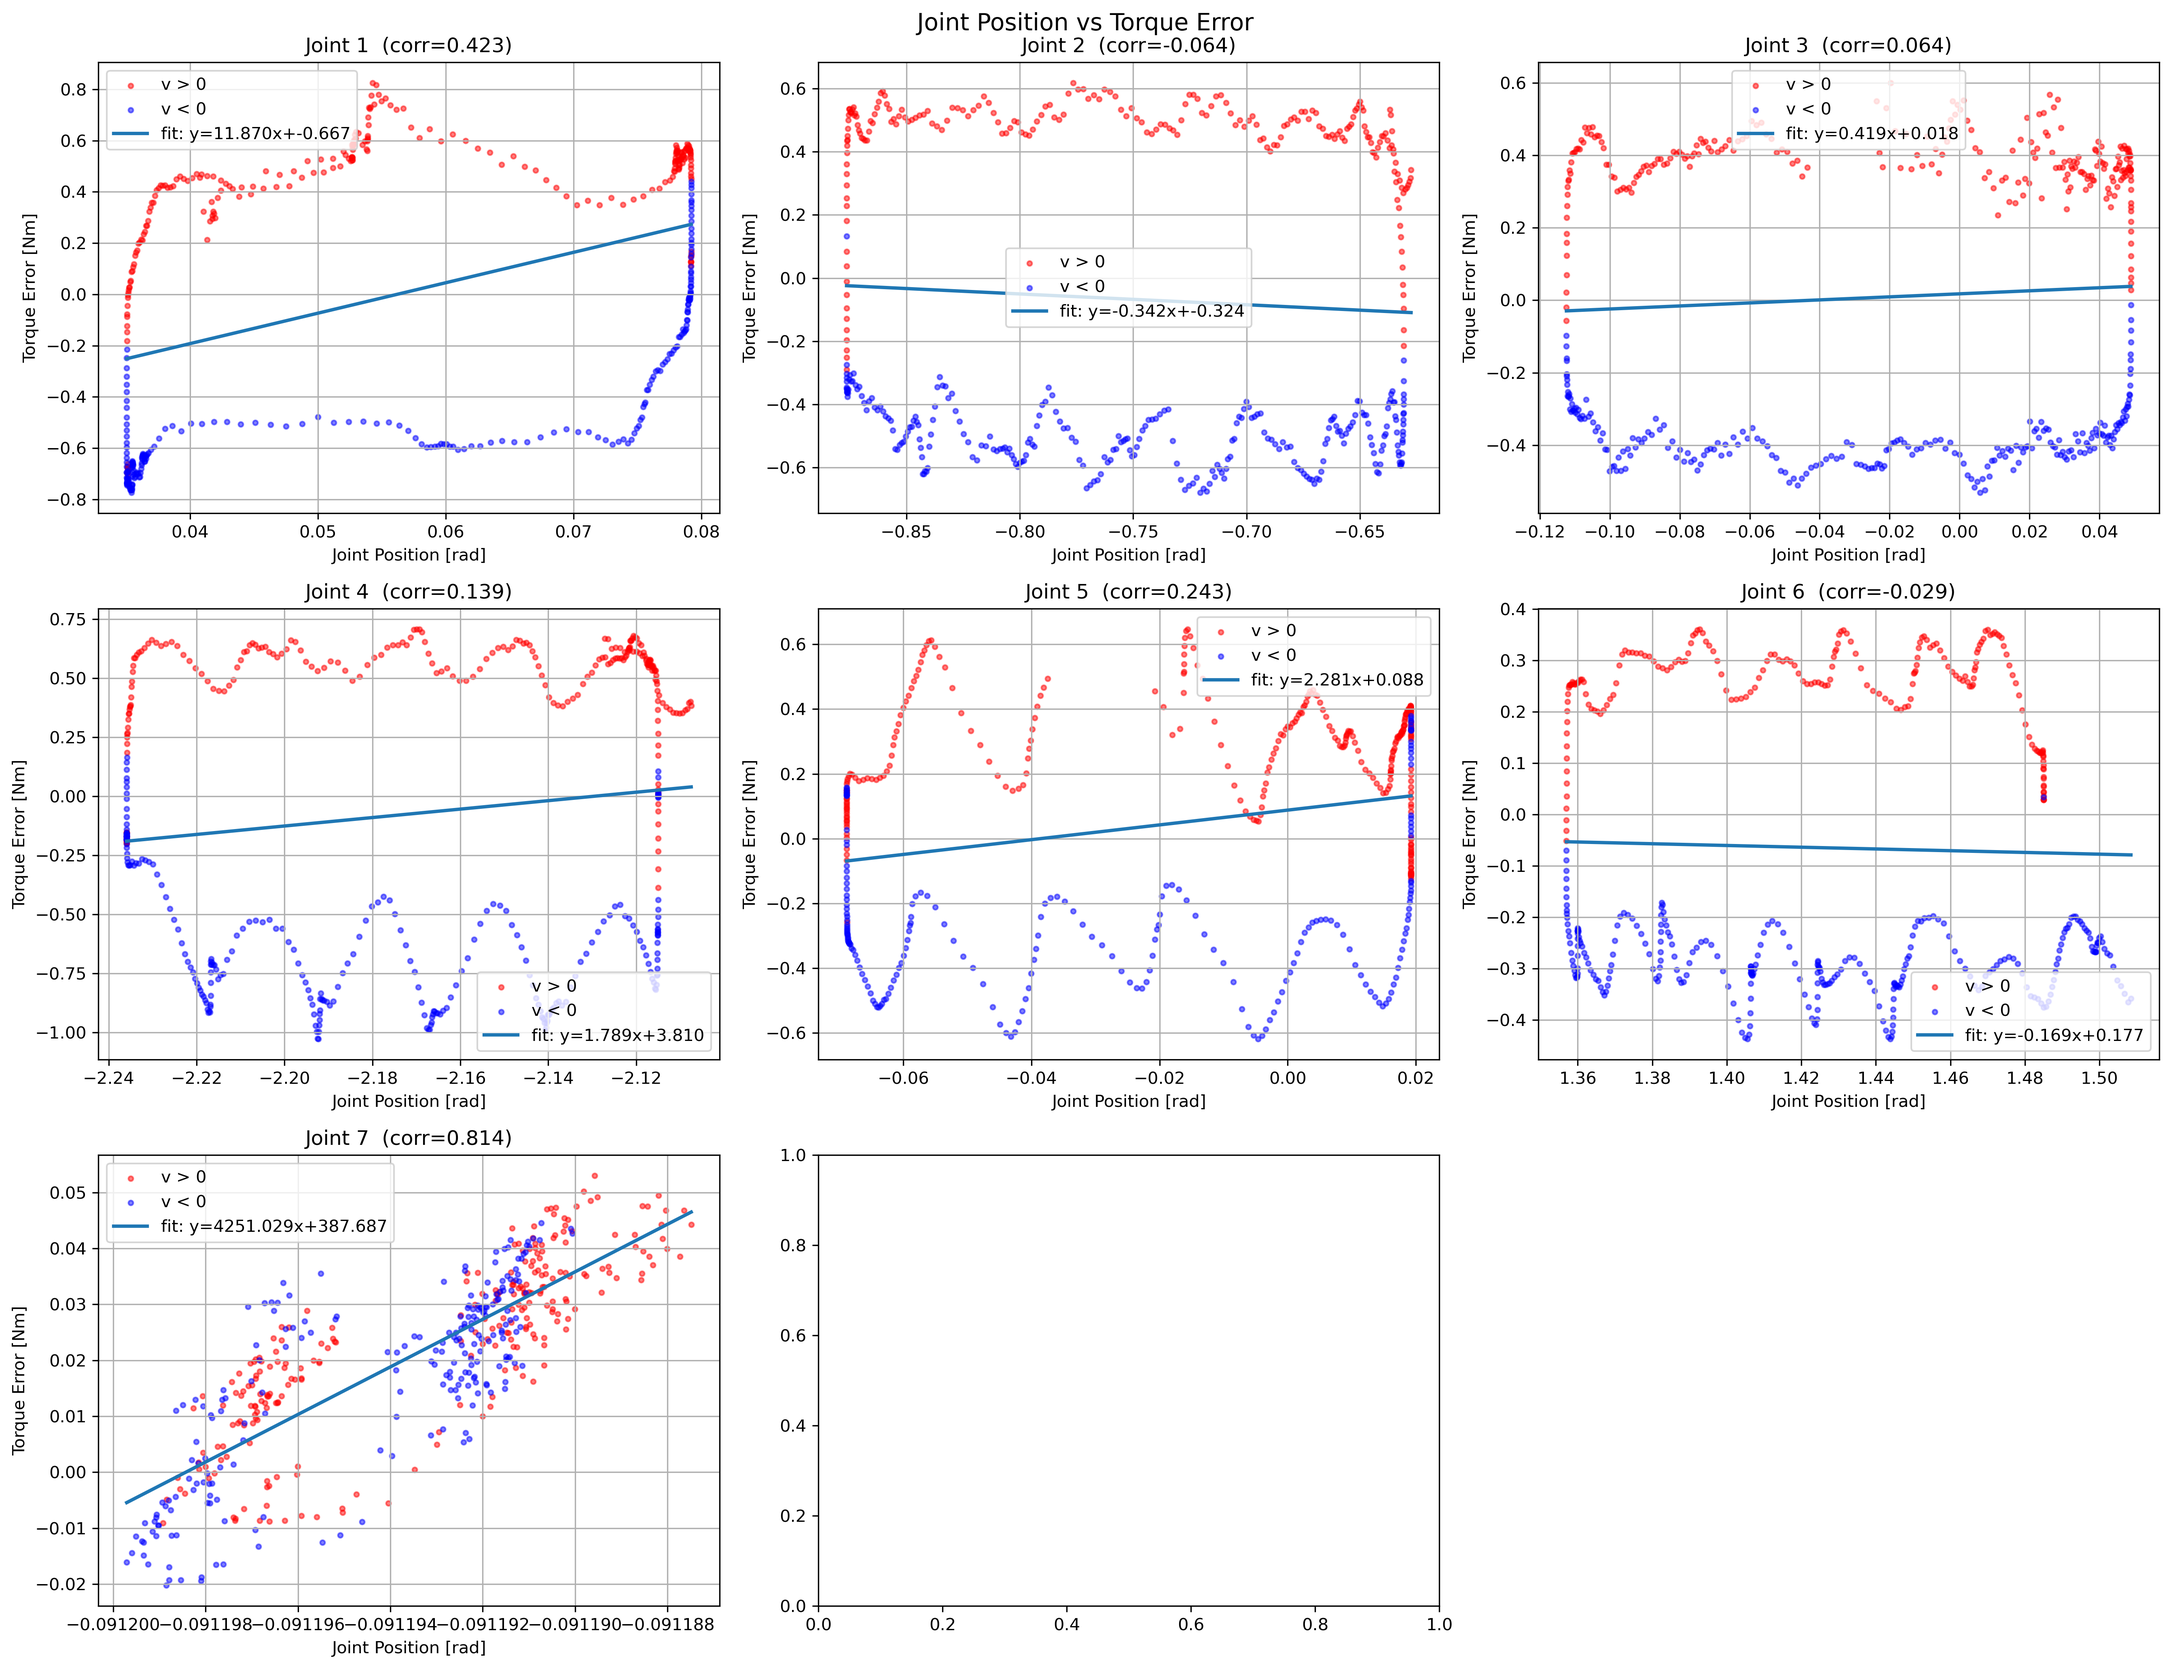
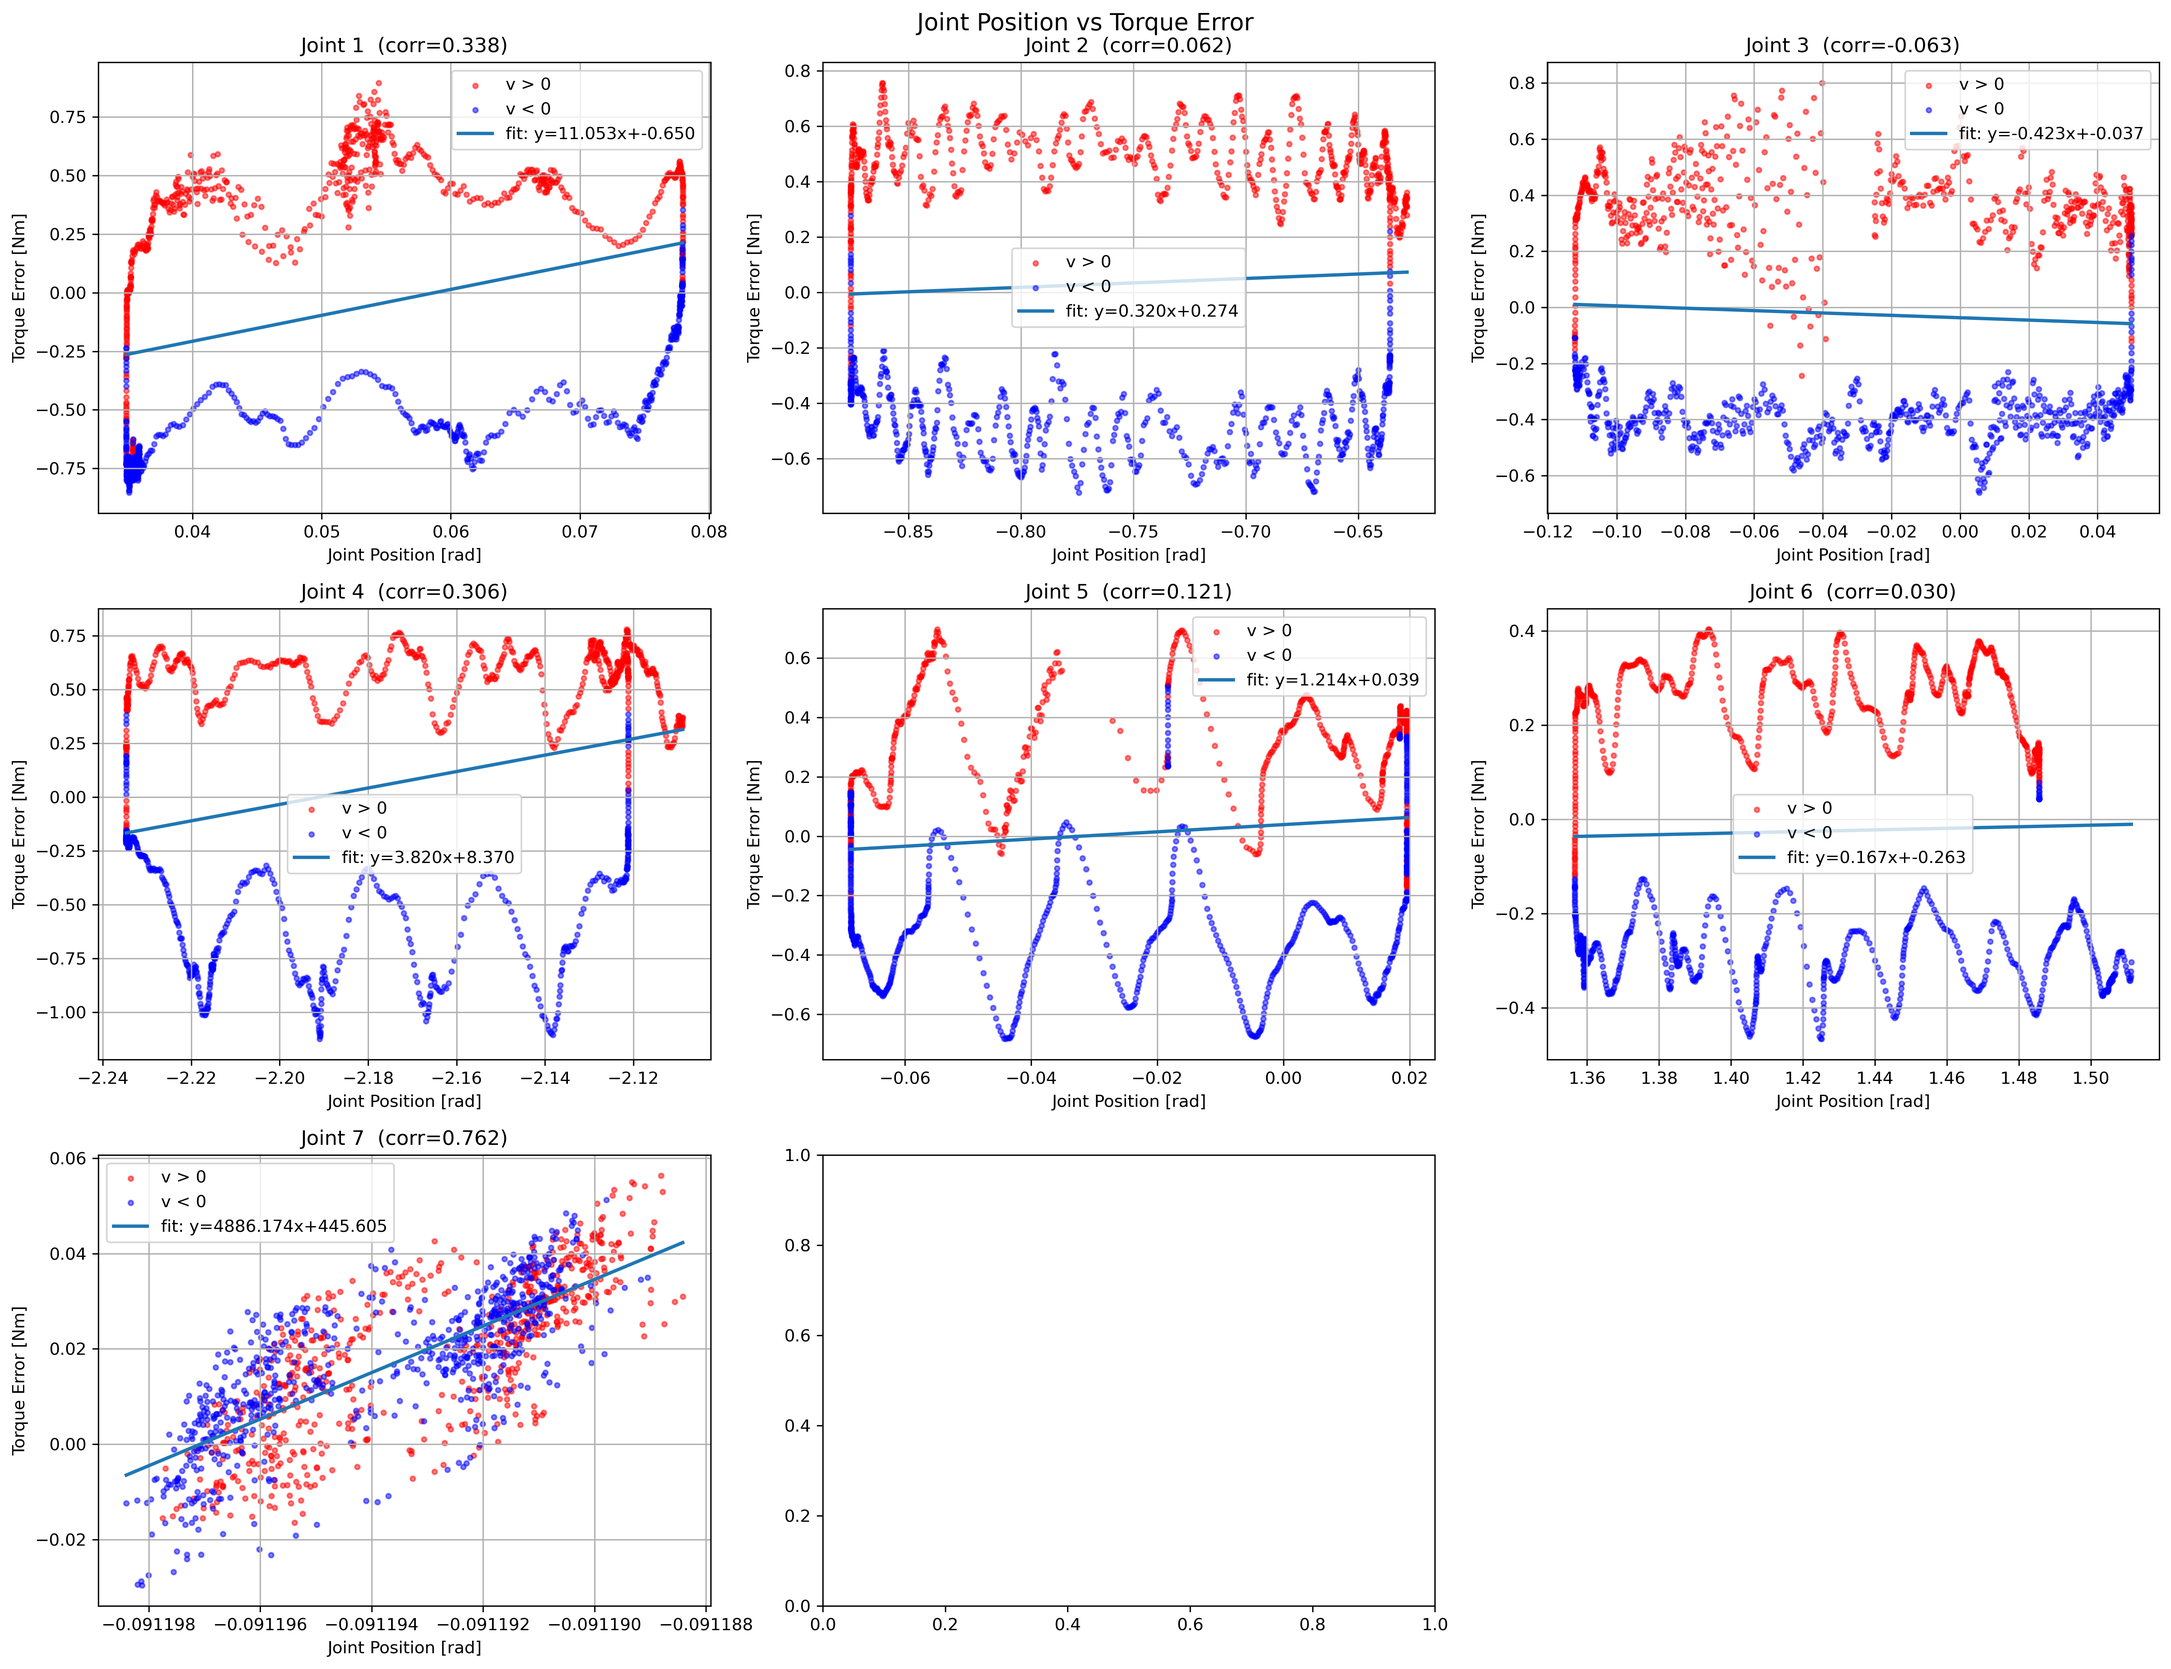
local gp+ cloud gp with own gp models structure finished, sparse sampling for local gp finished, to do: history prediction cache, result comparision

diff --git a/new_structure/py_controllers/py_controllers/cartesian_impedance.py b/new_structure/py_controllers/py_controllers/cartesian_impedance.py
@@ -133,7 +133,7 @@ class CartesianImpedanceController(Node):
         self.ddq_des_joint = np.zeros(7)
         self.tau_residual = np.zeros(7)
 
-        self.gp_stride = 1      # 每 10 个 state callback 做一次 GP（你可以调）
+        self.gp_stride = 20      # 每 10 个 state callback 做一次 GP（你可以调）
         self.gp_counter = 0
 
         self.y_hat_filtered = np.zeros(7)
@@ -197,7 +197,7 @@ class CartesianImpedanceController(Node):
             '/future_task_space'
         )
         self.future_delay = self.declare_parameter(
-            'future_delay', 0.01  # 默认 60 ms
+            'future_delay', 0.02  # 默认 60 ms
         ).value
 
         # 存最新一次未来轨迹
@@ -423,7 +423,7 @@ class CartesianImpedanceController(Node):
 
             # === 控制：先用“上一帧”融合好的 y_hat_combined 做补偿 ===
             if self.gp_active:
-                tau = tau - self.y_hat_cloud
+                tau = tau - self.y_hat_combined
 
             # --- 记录（含最终补偿用的 y_hat_combined）---
             if self.data_recording_enabled:
@@ -452,12 +452,6 @@ class CartesianImpedanceController(Node):
                 self.gp_counter += 1
                 if self.gp_counter % self.gp_stride == 0:
                     # 1) 本地 GP 立刻算一次（同步）
-                    # self.y_hat_local = self._gp_predict_and_update(
-                    #     self.q,
-                    #     self.dq_des_joint,
-                    #     self.ddq_des_joint,
-                    #     self.tau_residual_filtered,
-                    # )
                     self.y_hat_local = self._gp_predict_and_update(
                         self.q,
                         dq,
@@ -466,63 +460,44 @@ class CartesianImpedanceController(Node):
                     )   
 
                 # 2) 云端 GP：发异步请求（同一时刻的 q/dq/ddq/残差）
+                # === CLOUD GP 调用 ===
                 if self.gp_client.service_is_ready():
-                    # print("updating!!!!!!!!!!!!!!!!!")
+
                     req = AsyncGPpredict.Request()
+
+                    # ---- 当前输入 ----
                     req.q = self.q.astype(np.float32).tolist()
-                    # req.dq_des_joint = self.dq_des_joint.astype(np.float32).tolist()
                     req.dq_des_joint = dq.astype(np.float32).tolist()
                     req.ddq_des_joint = self.ddq_des_joint.astype(np.float32).tolist()
                     req.tau_residual = self.tau_residual_filtered.astype(np.float32).tolist()
 
-                    # 未来特征：如果开启延迟补偿，就用最新 future_traj 算
-                    if self._latest_future_traj is not None:
-                        x_f  = self._latest_future_traj["x_des"]
-                        dx_f = self._latest_future_traj["dx_des"]
-                        ddx_f = self._latest_future_traj["ddx_des"]
+                    # ============================================================
+                    #   未来输入（不依赖 future_traj，不依赖任务空间）
+                    #   永远可计算 —— 保证 cloud GP 每次都能收到预测输入
+                    # ============================================================
 
-                        dx_f_5  = dx_f[:5]
-                        ddx_f_5 = ddx_f[:5]
-                        dq_future  = jacobian_pinv @ dx_f_5
-                        ddq_future = jacobian_pinv @ (ddx_f_5 - djacobian @ dq)
+                    delay = float(self.future_delay)
 
-                        # ==== 未来任务空间采样 ====
-                        future_samples = self._sample_future_task_space(
-                            dx_f, ddx_f, 
-                            n_samples=self.gp_sample_n,
-                            sigma=self.gp_sample_sigma
-                        )
+                    q_now  = self.q
+                    dq_now = dq
+                    ddq_now = self.ddq_des_joint
 
-                        # ----- 未来样本收集 -----
-                        dq_samples = []
-                        ddq_samples = []
+                    # ---- 常加速度未来预测 ----
+                    q_future  = q_now + dq_now * delay + 0.5 * ddq_now * delay**2
+                    dq_future = dq_now + ddq_now * delay
 
-                        for dx_f_i, ddx_f_i in future_samples:
+                    # ---- cloud GP 特征输入 ----
+                    req.dq_des_joint_future  = dq_future.astype(np.float32).tolist()
+                    req.ddq_des_joint_future = ddq_now.astype(np.float32).tolist()
 
-                            dx_f_i_5  = dx_f_i[:5]
-                            ddx_f_i_5 = ddx_f_i[:5]
+                    # ---- 不使用未来采样 ----
+                    req.n_future_samples = 0
+                    req.dq_future_samples_flat = []
+                    req.ddq_future_samples_flat = []
 
-                            dq_future_i  = jacobian_pinv @ dx_f_i_5
-                            ddq_future_i = jacobian_pinv @ (ddx_f_i_5 - djacobian @ dq)
-
-                            dq_samples.append(dq_future_i.astype(np.float32))
-                            ddq_samples.append(ddq_future_i.astype(np.float32))
-
-                        # ----- 转成 flatten 数组 -----
-                        dq_samples_flat  = np.array(dq_samples, dtype=np.float32).reshape(-1)
-                        ddq_samples_flat = np.array(ddq_samples, dtype=np.float32).reshape(-1)
-
-                        # ----- 写入 request -----
-                        req.n_future_samples = len(dq_samples)
-                        req.dq_future_samples_flat  = dq_samples_flat.tolist()
-                        req.ddq_future_samples_flat = ddq_samples_flat.tolist()
-
-                        # ----- 主 future 状态 -----
-                        req.dq_des_joint_future  = dq_future.astype(np.float32).tolist()
-                        req.ddq_des_joint_future = ddq_future.astype(np.float32).tolist()
-
-                        # 如果你现在云端只用当前特征，也可以都设 0
-
+                    # ============================================================
+                    #   发送异步 cloud GP 请求
+                    # ============================================================
                     future = self.gp_client.call_async(req)
                     future.add_done_callback(self._gp_response_callback)
 
@@ -546,6 +521,11 @@ class CartesianImpedanceController(Node):
         except Exception as e:
             self.get_logger().error(f'Parameter error: {str(e)}')
     
+    def predict_future_joint_state(q, dq, ddq_des, delay):
+        dq_future = dq + ddq_des * delay
+        q_future  = q + dq * delay + 0.5 * ddq_des * delay**2
+        return q_future, dq_future
+
     def _sample_future_task_space(self, dx_f, ddx_f, n_samples=10, sigma=0.02):
         samples = []
         for _ in range(n_samples):
@@ -572,7 +552,7 @@ class CartesianImpedanceController(Node):
 
             # ---------- 融合模式选择 ----------
             mode = self.gp_mode
-            mode = "local"
+            mode = "fusion"
 
             if mode == "local":
                 # local-only
